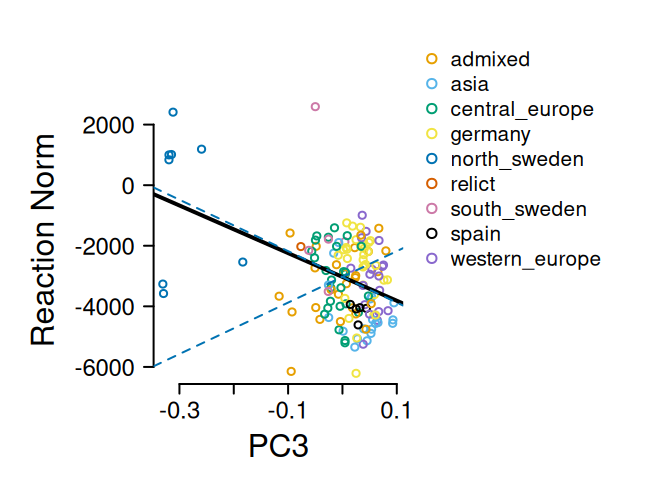
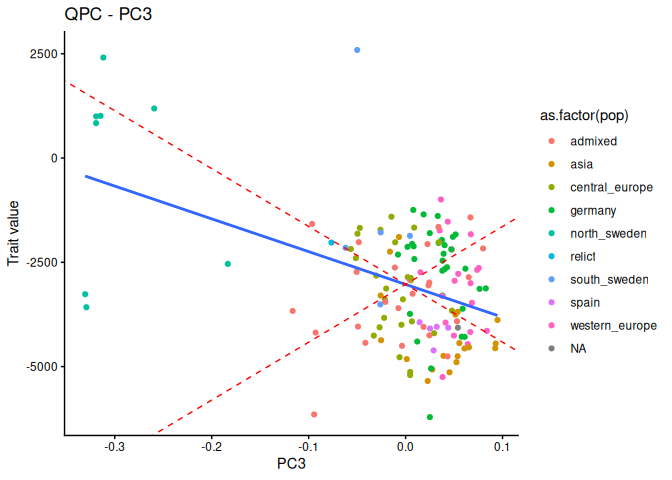
stuff

diff --git a/FIBR-qpc.md b/FIBR-qpc.md
@@ -82,48 +82,6 @@ myQpc_NS7$pvals*length(myQpc_NS7$pvals) #get bonf corrected pvals
 ## [1] 3.9285150433 2.7253684974 0.0007245085 3.9720526437 4.1050533899
 ```
 
-``` r
-## make a figure for the paper (you can see a better version in the figures/ folder)
-plantDat$group <- as.factor(plantDat$group) #make factor so we get colors
-
-#calculate the CIs
-myCINF6 = 1.96*sqrt(var0(myQpc_NF6$cml)*myEig$values)
-myCINS7 = 1.96*sqrt(var0(myQpc_NS7$cml)*myEig$values)
-
-fibrfig <- function(){
-par(mar = c(5,8,5,5), xpd=T, mfrow=c(1,3))
-plot.new()
-#make the legend
-legend('left', levels(plantDat$group)[-1], pch=1, pt.lwd = 2,col = palette()[-1], bty="n", text.width = 0.04, cex=1.5)
-legend('bottomleft', c('Observed','95% CI'), lty = c(1,2),lwd = 3,col = c('black','#0072B2'), bty="n", text.width = 0.04, cex=1.5)
-
-#plot Norwich Fall 2006
-plot(myEig$vectors[,3], plantDat$NorwichFall2006[-nrow(plantDat)], bty="n", col = plantDat$group, lwd=2, ylab = "", yaxt="n",xlab = "PC3", cex.lab=2, cex.axis=2, xaxt="n", ylim = c(5500, 17000))
-axis(1, cex.axis=1.5, lwd=2)
-axis(2, las=2, cex.axis=2, lwd=2, at = seq(6000, 16000, by = 2000), lab = seq(6, 16, by=2))
-mtext('1000 PTU to flower, Fall',side=2, line=5, cex=2)
-par(xpd=F)
-abline(lm(plantDat$NorwichFall2006[-nrow(plantDat)]~myEig$vectors[,3]), lwd=4, col = "black")
-abline(a=mean(plantDat$NorwichFall2006), b = myCINF6[3], lty=2, col='#0072B2', lwd=2)
-abline(a=mean(plantDat$NorwichFall2006), b = -myCINF6[3], lty=2, col='#0072B2', lwd=2)
-mtext('A', side=3, line=1, cex=2.5, adj = -0.1)
-
-#plot Norwich Spring
-plot(myEig$vectors[,3], plantDat$NorwichSpring2007[-nrow(plantDat)], bty="n", col = plantDat$group, lwd=2, ylab = "", yaxt="n",xlab = "PC3", cex.lab=2, cex.axis=2, xaxt="n", ylim = c(5500, 17000))
-axis(1, cex.axis=1.5, lwd=2)
-axis(2, las=2, cex.axis=2, lwd=2, at = seq(6000, 16000, by = 2000), lab = seq(6, 16, by=2))
-mtext('1000 PTU to flower, Spring',side=2, line=5, cex=2)
-abline(lm(plantDat$NorwichSpring2007[-nrow(plantDat)]~myEig$vectors[,3]), lwd=4, col = "black")
-abline(a=mean(plantDat$NorwichSpring2007), b = myCINS7[3], lty=2, col='#0072B2', lwd=2)
-abline(a=mean(plantDat$NorwichSpring2007), b = -myCINS7[3], lty=2, col='#0072B2', lwd=2)
-mtext('B', side=3, line=1, cex=2.5, adj = -0.1)
-}
-
-fibrfig()
-```
-
-![](FIBR-qpc_files/figure-html/unnamed-chunk-3-1.png)<!-- -->
-
 
 
 Test for selection on the reaction norm between spring and fall in Norwich
@@ -141,7 +99,7 @@ hist(plantDat$rn, col = mycol[3], border="white", xlab = "", main="PTU Spring - 
 ``` r
 ## most are negative which makes sense since the fall plants had to overwinter.
 
-plot(plantDat$NorwichSpring2007, plantDat$NorwichFall2006, col = plantDat$group, bty="n", xlab = "Spring", ylab="Fall", lwd=2)
+plot(plantDat$NorwichSpring2007, plantDat$NorwichFall2006, col = as.factor(plantDat$group), bty="n", xlab = "Spring", ylab="Fall", lwd=2)
 cor.test(plantDat$NorwichFall2006, plantDat$NorwichSpring2007)
 ```
 
@@ -178,22 +136,11 @@ myQpc_rn$pvals[3]
 ```
 
 ``` r
-#make a figure of the reaction norm
-fibRxnFig <- function(x){
-myCIrn = 1.96*sqrt(var0(myQpc_rn$cml)*myEig$values) #calculate CIs
-par(mar = c(5,8,5,14), xpd=T, mfrow=c(1,1))
-plot(myEig$vectors[,3], plantDat$rn[-nrow(plantDat)], bty="n", col = plantDat$group, lwd=2, ylab = "", yaxt="n",xlab = "PC3", cex.lab=2, cex.axis=2, xaxt="n")
-axis(1, cex.axis=1.5, lwd=2)
-axis(2, las=2, cex.axis=1.5, lwd=2)
-mtext('Reaction Norm',side=2, line=5, cex=2)
-legend(0.13, 5000, levels(plantDat$group), pch=1, pt.lwd = 2,col = palette(), bty="n", text.width = 0.04, cex=1.3)
-par(xpd=F)
-abline(lm(plantDat$rn[-nrow(plantDat)]~myEig$vectors[,3]), lwd=4, col = "black")
-abline(a=mean(plantDat$rn), b = myCIrn[3], lty=2, col='#0072B2', lwd=2)
-abline(a=mean(plantDat$rn), b = -myCIrn[3], lty=2, col='#0072B2', lwd=2)
-}
+plotQPC(myQpc_rn, myEig = myEig, traitValues = plantDat$rn, populationLabels = plantDat$group, testPCs = 3)
+```
 
-fibRxnFig()
+```
+## [[1]]
 ```
 
 ![](FIBR-qpc_files/figure-html/unnamed-chunk-5-3.png)<!-- -->
@@ -201,7 +148,32 @@ fibRxnFig()
 
 
 
-Doing the conditional test
+Conditional test on the reaction norm
+
+
+``` r
+myZrn = data.frame(rn = plantDat$rn, meanft=(plantDat$NorwichFall2006+plantDat$NorwichSpring2007)/2, stringsAsFactors = F) #make a dataframe with the focal trait in column 1 and the controlled-for trait in column 2
+myQcondrn = condQpc(myZ = myZrn, myU = myEig$vectors, myLambdas = myEig$values, myM = 3, myL = 70:140) #do the conditional test just for PC3
+myQcondrn$pvals #get the p value
+```
+
+```
+##           [,1]
+## [1,] 0.4390403
+```
+
+``` r
+plotCondQpc(myQcondrn,myEig,plantDat$rn,populationLabels=plantDat$group, 3)
+```
+
+```
+## [[1]]
+```
+
+![](FIBR-qpc_files/figure-html/unnamed-chunk-7-1.png)<!-- -->
+
+
+The conditional test on the correlated traits view
 
 ``` r
 #test for selection on Norwich spring given Norwich fall
@@ -228,6 +200,7 @@ myQcondNF6$pvals
 ```
 
 
+
 ``` r
 ## making figures of the conditional test
 
@@ -242,27 +215,27 @@ cfibrfig <-function(){
 legend('left', c("Asia","Central Europe","Germany","North Sweden","Relict","South Sweden", "Spain","Western Europe"), pch=1, pt.lwd = 2,col = palette()[-1], bty="n", text.width = 0.04, cex=1.5)
   legend('bottomleft', c('Observed','95% CI', '95% conditional CI'), lty = c(1,2,2),lwd = 2,col = c('black','#0072B2',"#E69F00"), bty="n", text.width = 0.04, cex=1.5)
 
-plot(myEig$vectors[,3], plantDat$NorwichFall2006[-nrow(plantDat)], bty="n", col = plantDat$group, lwd=2, ylab = "", yaxt="n",xlab = "PC3", cex.lab=2, cex.axis=2, xaxt="n", ylim = c(5500, 18000))
+plot(myEig$vectors[,3], plantDat$NorwichFall2006[-nrow(plantDat)], bty="n", col = as.factor(plantDat$group), lwd=2, ylab = "", yaxt="n",xlab = "PC3", cex.lab=2, cex.axis=2, xaxt="n", ylim = c(5500, 18000))
 axis(1, cex.axis=1.5, lwd=2)
 axis(2, las=2, cex.axis=2, lwd=2, at = seq(6000, 18000, by = 2000), lab = seq(6, 18, by=2))
 mtext('1000 PTU to flower, Fall',side=2, line=5, cex=2)
 par(xpd=F)
 myl = lm(myQcondNF6$mu1cond~myEig$vectors[,3]) ##conditional expectation of the relationsip
 abline(lm(plantDat$NorwichFall2006[-nrow(plantDat)]~myEig$vectors[,3]), lwd=4, col = "black")
-abline(a=mean(plantDat$NorwichFall2006), b = myCINF6[3], lty=2, col='#0072B2', lwd=2)
-abline(a=mean(plantDat$NorwichFall2006), b = -myCINF6[3], lty=2, col='#0072B2', lwd=2)
+abline(a=mean(plantDat$NorwichFall2006), b = myCI_fs[3], lty=2, col='#0072B2', lwd=2)
+abline(a=mean(plantDat$NorwichFall2006), b = -myCI_fs[3], lty=2, col='#0072B2', lwd=2)
 abline(a=mean(plantDat$NorwichFall2006), b = myl$coefficients[2] + myCI_fs[3], lty=2, col="#E69F00", lwd=2)
 abline(a=mean(mean(plantDat$NorwichFall2006)), b = myl$coefficients[2] -myCI_fs[3], lty=2, col="#E69F00", lwd=2)
 mtext('A', side=3, line=0, cex=2.5, adj = -0.3)
 
-plot(myEig$vectors[,3], plantDat$NorwichSpring2007[-nrow(plantDat)], bty="n", col = plantDat$group, lwd=2, ylab = "", yaxt="n",xlab = "PC3", cex.lab=2, cex.axis=2, xaxt="n", ylim = c(5500, 18000))
+plot(myEig$vectors[,3], plantDat$NorwichSpring2007[-nrow(plantDat)], bty="n", col = as.factor(plantDat$group), lwd=2, ylab = "", yaxt="n",xlab = "PC3", cex.lab=2, cex.axis=2, xaxt="n", ylim = c(5500, 18000))
 axis(1, cex.axis=1.5, lwd=2)
 axis(2, las=2, cex.axis=2, lwd=2, at = seq(6000, 18000, by = 2000), lab = seq(6, 18, by=2))
 mtext('1000 PTU to flower, Spring',side=2, line=5, cex=2)
 mylb = lm(myQcondNS7$mu1cond~myEig$vectors[,3]) ##conditional expectation of the relationship
 abline(lm(plantDat$NorwichSpring2007[-nrow(plantDat)]~myEig$vectors[,3]), lwd=4, col = "black")
-abline(a=mean(plantDat$NorwichSpring2007), b = myCINS7[3], lty=2, col='#0072B2', lwd=2)
-abline(a=mean(plantDat$NorwichSpring2007), b = -myCINS7[3], lty=2, col='#0072B2', lwd=2)
+abline(a=mean(plantDat$NorwichSpring2007), b = myCI_sf[3], lty=2, col='#0072B2', lwd=2)
+abline(a=mean(plantDat$NorwichSpring2007), b = -myCI_sf[3], lty=2, col='#0072B2', lwd=2)
 abline(a=mean(mean(plantDat$NorwichSpring2007)), b = mylb$coefficients[2] + myCI_sf[3], lty=2, col="#E69F00", lwd=2)
 abline(a=mean(mean(plantDat$NorwichSpring2007)), b = mylb$coefficients[2] -myCI_sf[3], lty=2, col="#E69F00", lwd=2)
 mtext('B', side=3, line=0, cex=2.5, adj = -0.3)
@@ -271,7 +244,7 @@ par(mar = c(5,5,5,5), xpd=T, mfrow=c(1,3))
 cfibrfig()
 ```
 
-![](FIBR-qpc_files/figure-html/unnamed-chunk-8-1.png)<!-- -->
+![](FIBR-qpc_files/figure-html/unnamed-chunk-9-1.png)<!-- -->
 
 
 
@@ -330,16 +303,12 @@ ellipse <- function(mu, sigma, alpha=.05, npoints=250,
 }
 
 par(mfrow=c(1,1))
-plot(plantDat$NorwichFall2006, plantDat$NorwichSpring2007, bty="n", col = plantDat$group, lwd=2, yaxt="n",xlab = "Flowering Time Fall", cex.lab=2, cex.axis=2, ylab = "", ylim = c(4e3, 18e3), xlim=c(4e3, 18e3))
+plot(plantDat$NorwichFall2006, plantDat$NorwichSpring2007, bty="n", col = as.factor(plantDat$group), lwd=2, yaxt="n",xlab = "Flowering Time Fall", cex.lab=2, cex.axis=2, ylab = "", ylim = c(4e3, 18e3), xlim=c(4e3, 18e3))
 axis(2, las=2, cex.axis=1.5, lwd=2)
 mtext('Flowering Time Spring',side=2, line=5, cex=2)
 ellipse(mu=c(mean(myZ$NF6), mean(myZ$NS7)), myG,col="pink",lwd=2, alpha=0.01)
 ```
 
-![](FIBR-qpc_files/figure-html/unnamed-chunk-11-1.png)<!-- -->
+![](FIBR-qpc_files/figure-html/unnamed-chunk-12-1.png)<!-- -->
 
 
-```
-## png 
-##   2
-```
